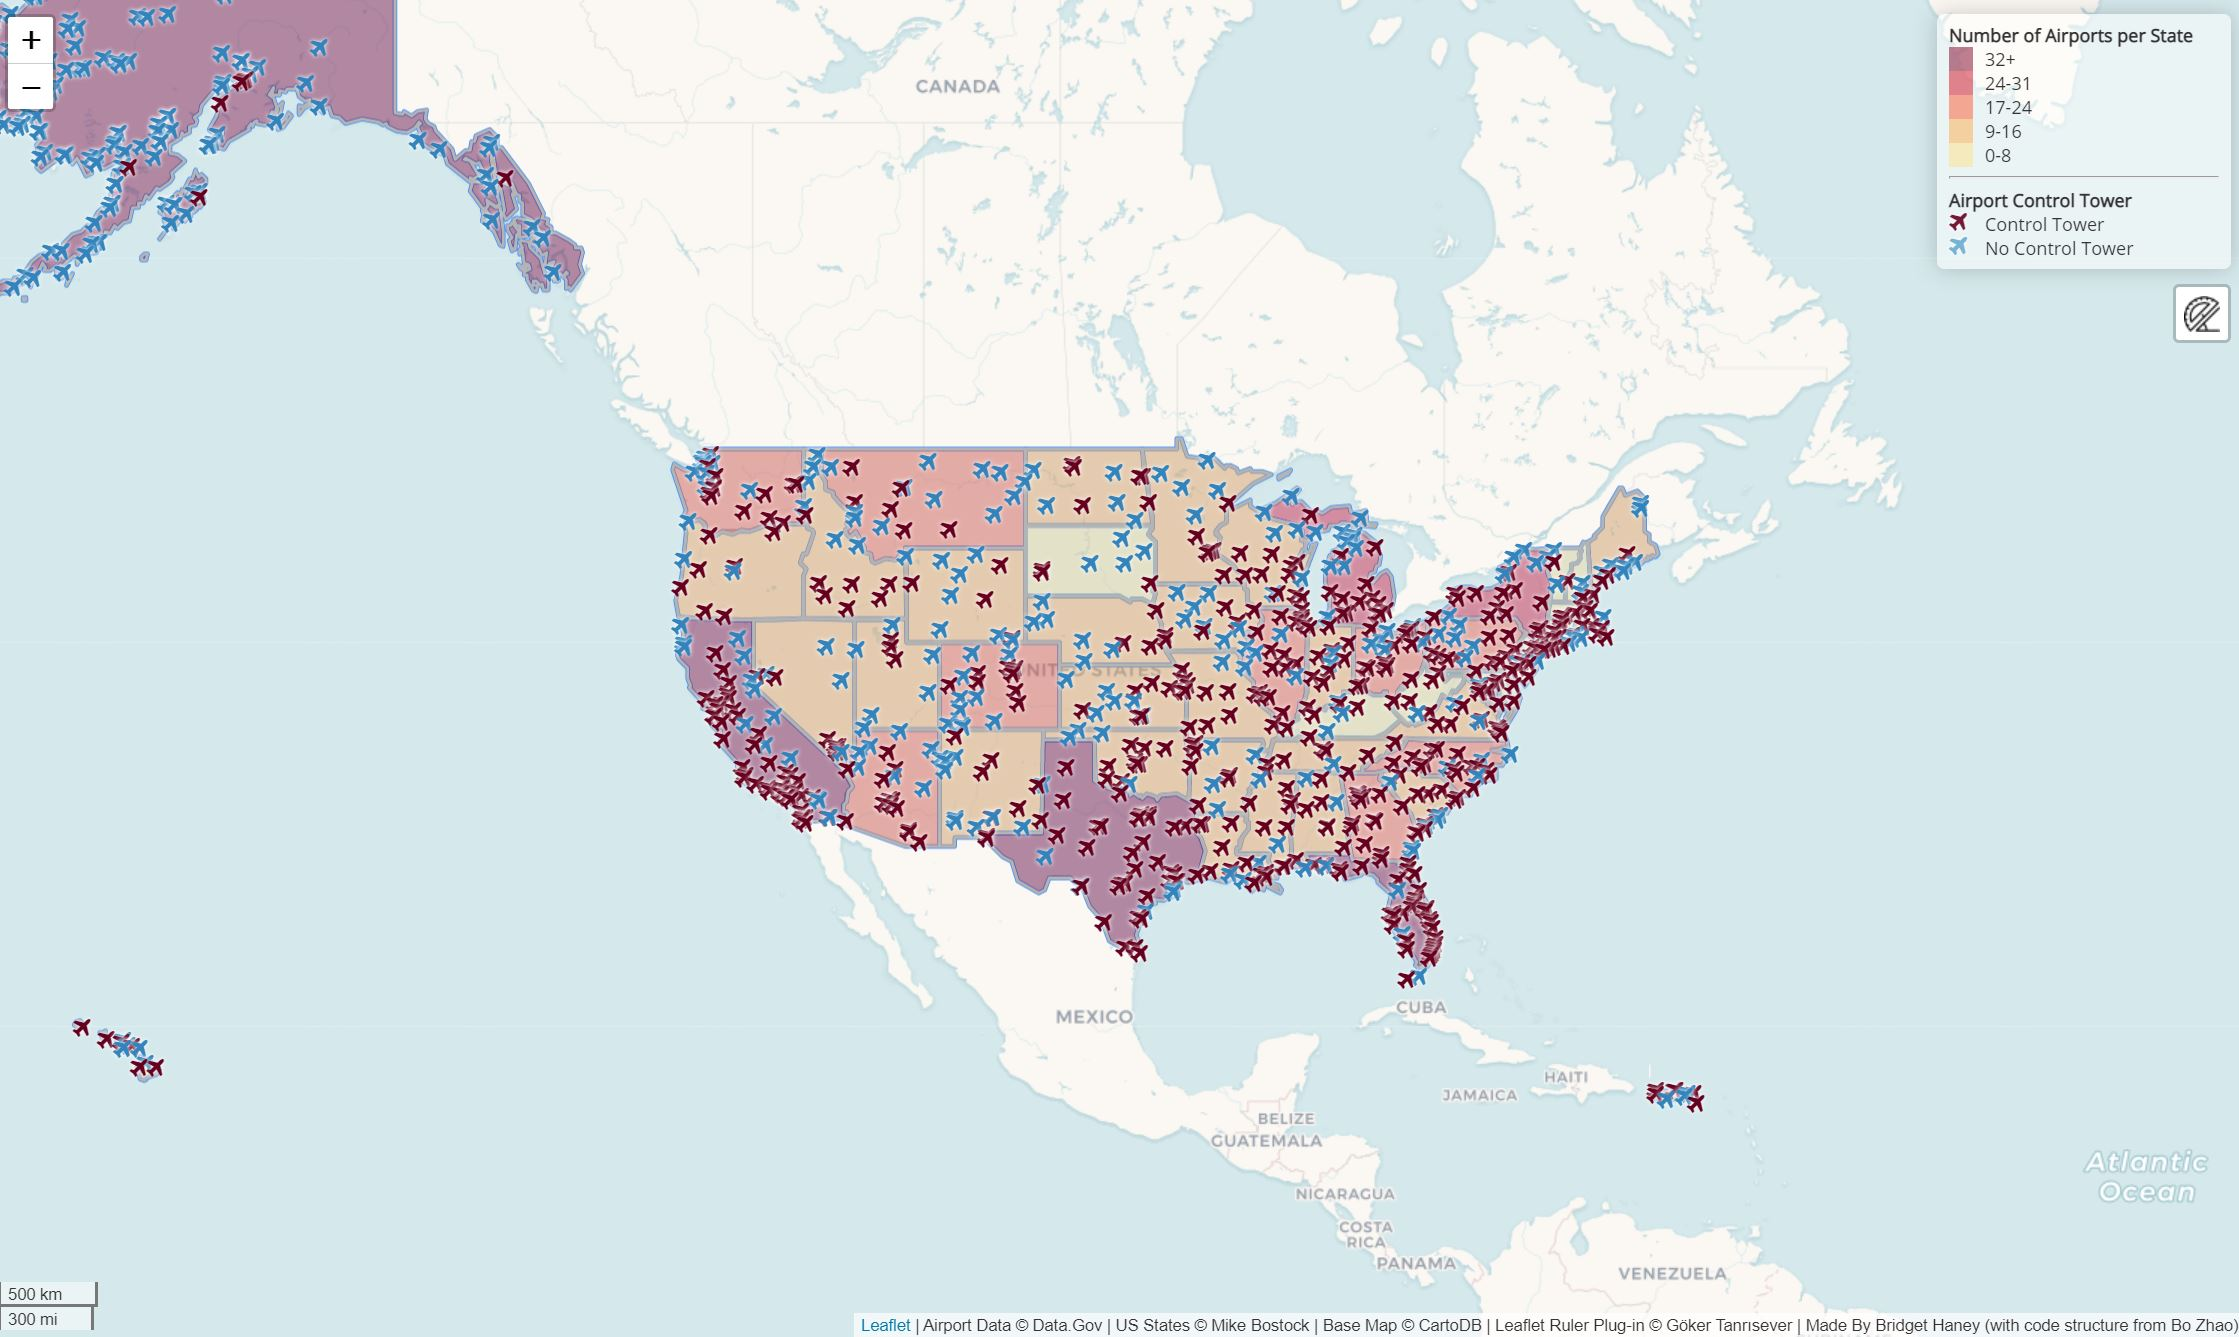
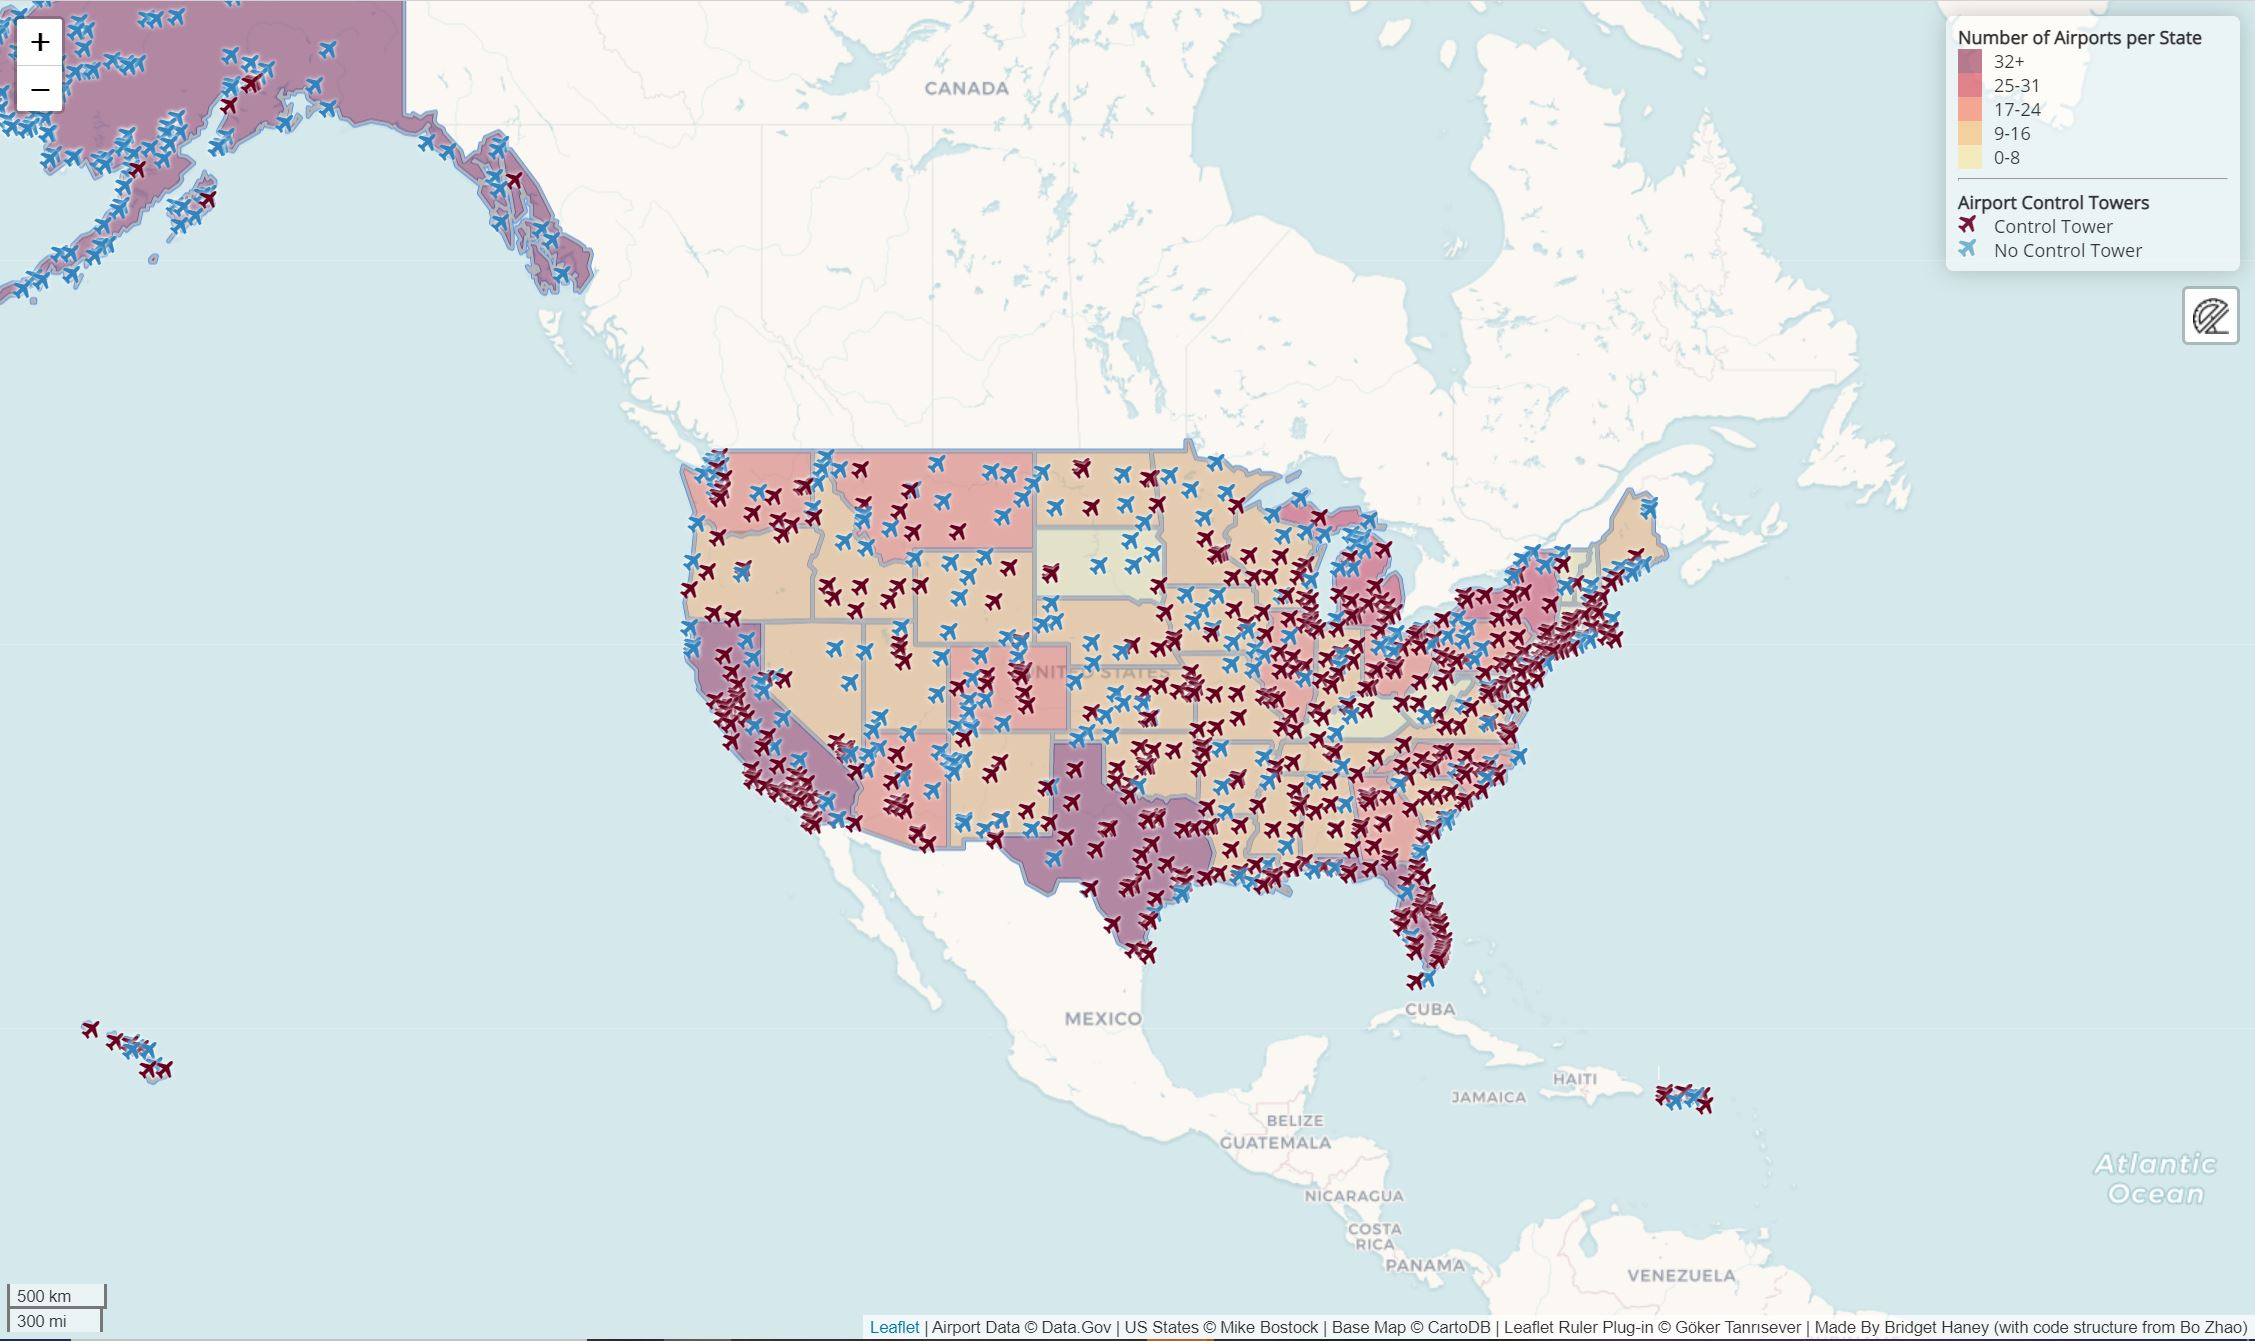
added new code and image

diff --git a/index.html b/index.html
@@ -21,7 +21,7 @@
 <body>
 
 <div id="map"></div>
-<script type="text/javascript">
+<script>
 
 
     var airport_map = L.map('map', {
@@ -99,11 +99,11 @@
     var div = L.DomUtil.create('div', 'legend');
     div.innerHTML += '<b>Number of Airports per State</b><br />';
     div.innerHTML += '<i style="background: ' + colors[5] + '; opacity: 0.5"></i><p>32+</p>';
-    div.innerHTML += '<i style="background: ' + colors[4] + '; opacity: 0.5"></i><p>24-31</p>';
+    div.innerHTML += '<i style="background: ' + colors[4] + '; opacity: 0.5"></i><p>25-31</p>';
     div.innerHTML += '<i style="background: ' + colors[3] + '; opacity: 0.5"></i><p>17-24</p>';
     div.innerHTML += '<i style="background: ' + colors[2] + '; opacity: 0.5"></i><p>9-16</p>';
     div.innerHTML += '<i style="background: ' + colors[1] + '; opacity: 0.5"></i><p>0-8</p>';
-    div.innerHTML += '<hr><b>Airport Control Tower<b><br />';
+    div.innerHTML += '<hr><b>Airport Control Towers<b><br />';
     div.innerHTML += '<i class="fa fa-plane marker-color-1"></i><p> Control Tower</p>';
     div.innerHTML += '<i class="fa fa-plane marker-color-10"></i><p> No Control Tower </p>';
 
@@ -115,6 +115,7 @@
 
 
     L.control.scale({position: 'bottomleft'}).addTo(airport_map);
+
 
     L.control.ruler().addTo(airport_map);
 
